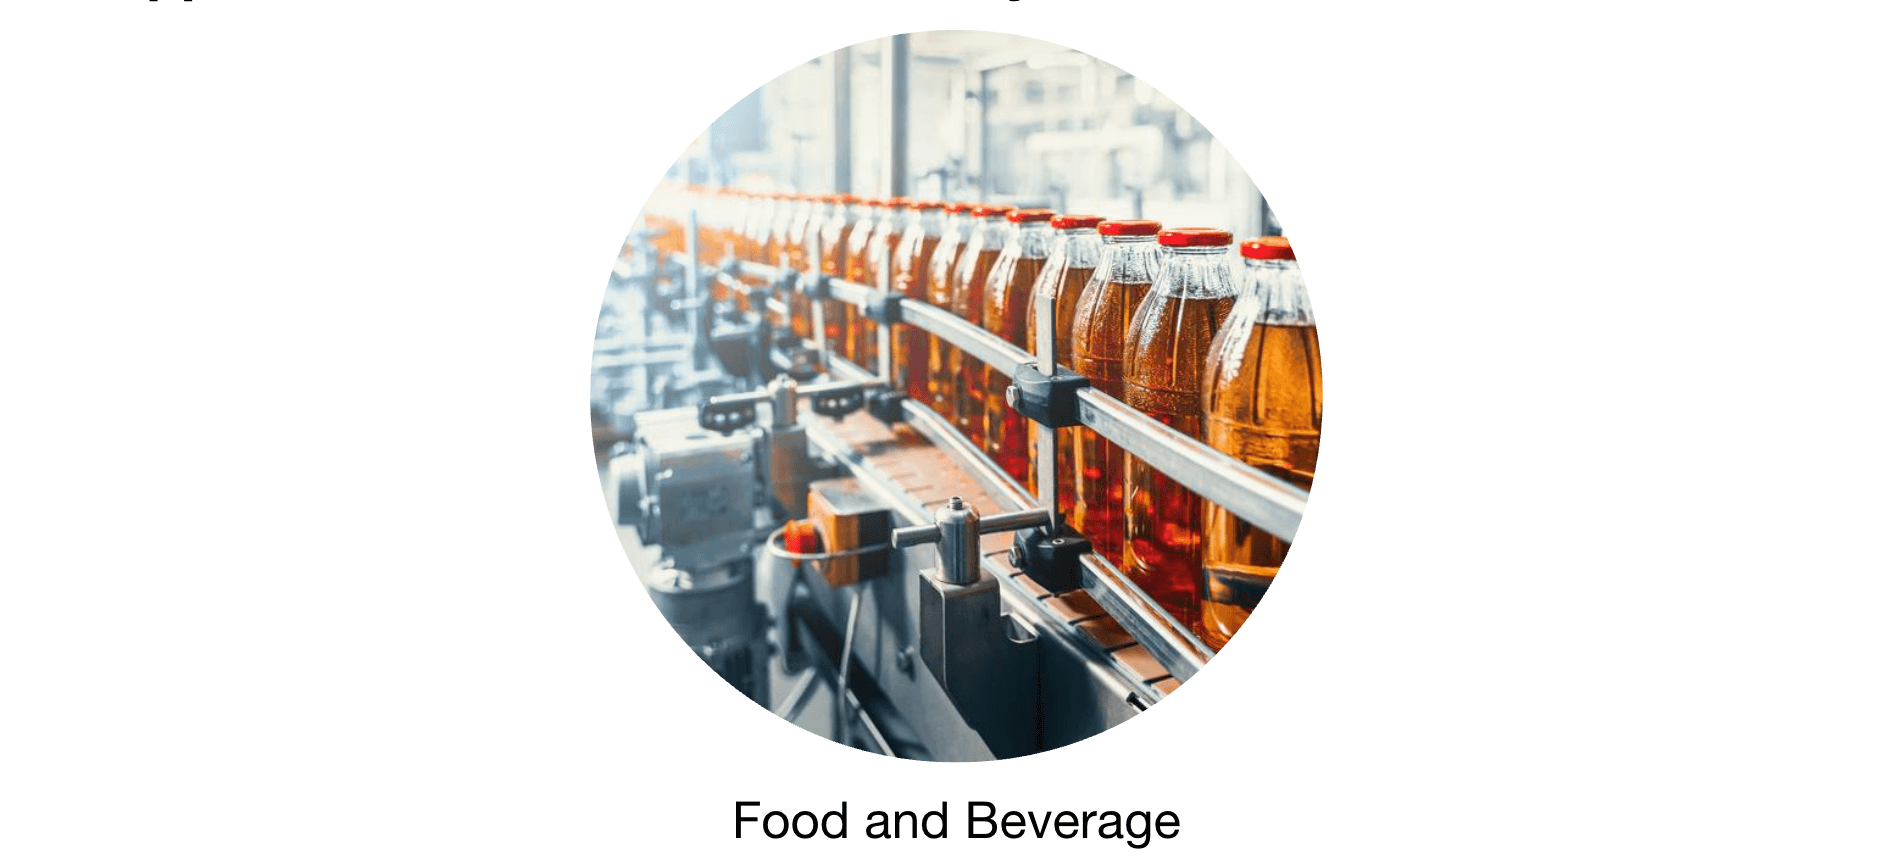
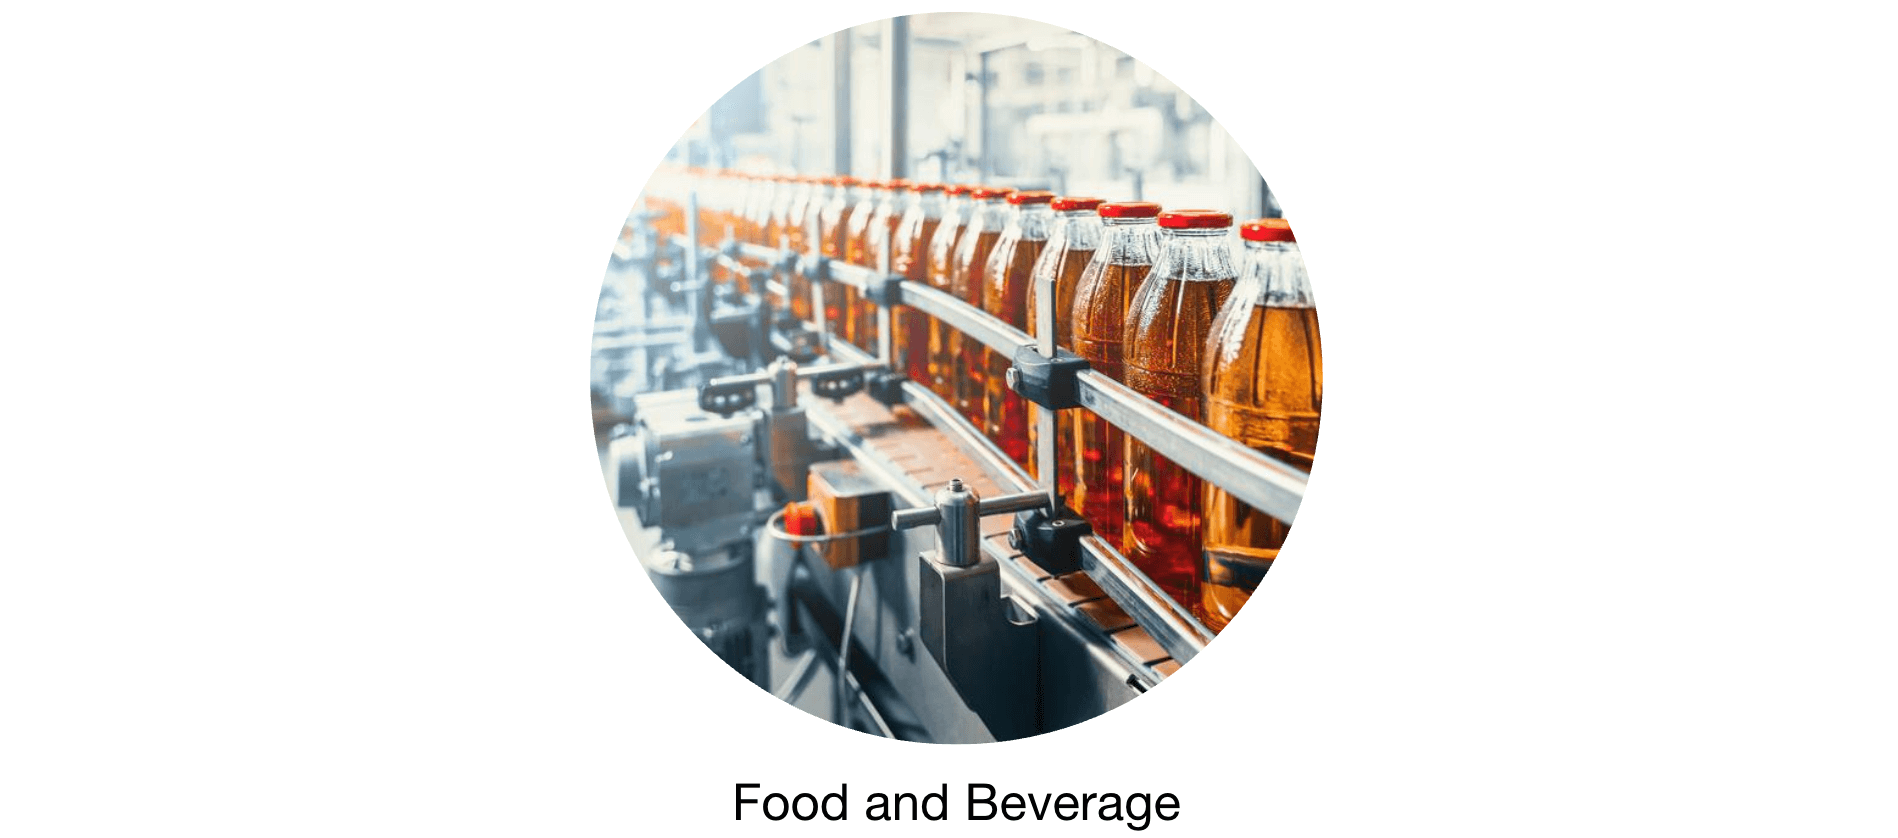
fix: Revision for product monitoring coffee barista

diff --git a/fa/id_en/events-seminars/showroom-cikarang/B-2.html b/fa/id_en/events-seminars/showroom-cikarang/B-2.html
@@ -79,7 +79,7 @@
       <h3 class="c-headingLv3">This Application is Suitable for Industry :  </h3>
       <div class="c-img size_down-2"><img src="/fa/id_en/events-seminars/assets/img/showroom/B2/B2-3.png" alt="" decoding="async"></div>
       <h3 class="c-headingLv3">System Configuration      </h3>
-      <div class="c-img size_down-2"><img src="/fa/id_en/events-seminars/assets/img/showroom/B2/B2-3.png" alt="" decoding="async"></div>
+      <div class="c-img size_down-2"><img src="/fa/id_en/events-seminars/assets/img/showroom/B2/B2-4.png" alt="" decoding="async"></div>
 
       <h3 class="c-headingLv3">Product Used and Features</h3>
       <div class="c-img size_down-2"><img src="/fa/id_en/events-seminars/assets/img/showroom/B2/B2-5.png" alt="" decoding="async"></div>

diff --git a/fa/id_id/events-seminars/showroom-cikarang/B-2.html b/fa/id_id/events-seminars/showroom-cikarang/B-2.html
@@ -79,7 +79,7 @@
         <h3 class="c-headingLv3">Aplikasi Ini Cocok untuk Industri :</h3>
       <div class="c-img size_down-2"><img src="/fa/id_id/events-seminars/assets/img/showroom/B2/B2-3.png" alt="" decoding="async"></div>
       <h3 class="c-headingLv3">Konfigurasi Sistem</h3>
-      <div class="c-img size_down-2"><img src="/fa/id_id/events-seminars/assets/img/showroom/B2/B2-3.png" alt="" decoding="async"></div>
+      <div class="c-img size_down-2"><img src="/fa/id_id/events-seminars/assets/img/showroom/B2/B2-4.png" alt="" decoding="async"></div>
 
       <h3 class="c-headingLv3">Produk yang Digunakan dan Fitur</h3>
       <div class="c-img size_down-2"><img src="/fa/id_id/events-seminars/assets/img/showroom/B2/B2-5.png" alt="" decoding="async"></div>
